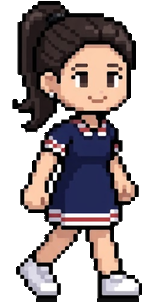
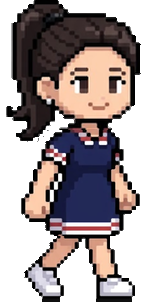
Pitcha: iguala o tamanho da cabeça e das pernas entre os frames
Os frames gerados por IA derivavam de proporção: a cabeça encolhia 22%
(idle 141 px até o último frame 117 px, topo do cabelo→pescoço) e as pernas
cresciam 27% (64→81 px), enquanto o tronco era igual. Nenhuma escala única
corrige; a ferramenta agora normaliza por partes (--normalize-parts).

- cabeça = 130 px em todos os frames, pernas = 72 px, altura 298–302 px,
  centro de massa dentro de 0,9 px
- pescoço cortado logo acima do colarinho; a ponta do rabo de cavalo
  acompanha a cabeça (só o que está ligado a ela)
- tools/: remove o cache do Python do repositório e o ignora

Claude-Session: https://claude.ai/code/session_01JWARVxodwXbVVRqa2zBGJ1

diff --git a/tools/sheet_to_sprites.py b/tools/sheet_to_sprites.py
@@ -184,6 +184,126 @@ def clear_gap_strips(img, max_width=8, min_rows=12, min_black_run=3):
     return Image.fromarray(a, 'RGBA'), cleared
 
 
+def _blobs(mask, min_area=12):
+    """Componentes conexos de uma máscara booleana: [(área, x0, x1, y0, y1)]."""
+    h, w = mask.shape
+    seen = np.zeros_like(mask)
+    out = []
+    for y in range(h):
+        for x in range(w):
+            if mask[y, x] and not seen[y, x]:
+                st, pts = [(y, x)], []
+                seen[y, x] = True
+                while st:
+                    cy, cx = st.pop()
+                    pts.append((cy, cx))
+                    for dy, dx in ((1, 0), (-1, 0), (0, 1), (0, -1)):
+                        ny, nx = cy + dy, cx + dx
+                        if 0 <= ny < h and 0 <= nx < w and mask[ny, nx] and not seen[ny, nx]:
+                            seen[ny, nx] = True
+                            st.append((ny, nx))
+                if len(pts) >= min_area:
+                    ys = [p[0] for p in pts]; xs = [p[1] for p in pts]
+                    out.append((len(pts), min(xs), max(xs), min(ys), max(ys)))
+    return out
+
+
+def detect_landmarks(img):
+    """Pontos de referência de uma figura (RGBA recortada, topo = linha 0), em px da própria imagem:
+       eye_y  = linha dos olhos (centro das duas manchas escuras cercadas de pele)
+       neck_y = 3 px acima da 1ª linha de roupa (azul, listra vermelha ou branco do colarinho) abaixo do rosto
+       hem_y  = última listra vermelha acima dos sapatos (barra da saia)
+    Pensado para a roupa com listras vermelhas e vestido azul da Pitcha; para outro personagem passe
+    --landmarks com os valores medidos à mão."""
+    a = np.array(img).astype(int)
+    h, w = a.shape[:2]
+    op = a[..., 3] > 0
+    skin = op & (a[..., 0] > 190) & (a[..., 1] > 130) & (a[..., 2] > 100) & (a[..., 0] > a[..., 2] + 25)
+    dark = op & (a[..., 0] < 95) & (a[..., 1] < 80) & (a[..., 2] < 80)
+    band = np.zeros_like(dark)
+    lo, hi = int(h * 0.12), int(h * 0.45)
+    band[lo:hi] = dark[lo:hi]
+    eyes = [c for c in _blobs(band) if (c[4] - c[3]) <= 30
+            and skin[(c[3] + c[4]) // 2, :c[1]].any() and skin[(c[3] + c[4]) // 2, c[2] + 1:].any()]
+    eyes = sorted(sorted(eyes, key=lambda c: -c[0])[:2], key=lambda c: c[1])
+    if len(eyes) != 2:
+        raise SystemExit('não achei os 2 olhos; passe --landmarks')
+    eye_y = sum((c[3] + c[4]) / 2 for c in eyes) / 2
+    red = op & (a[..., 0] > 150) & (a[..., 1] < 95) & (a[..., 2] < 95)
+    navy = op & (a[..., 2] > a[..., 0] + 25) & (a[..., 2] > a[..., 1] + 10) & (a[..., 0] < 110)
+    white = op & (a[..., :3].min(axis=2) > 200)
+    cloth = navy | red | white
+    # +34 pula boca e dentes. A roupa (azul/listras do colarinho) começa logo abaixo do pescoço;
+    # o corte fica 3 px acima dela para não passar por dentro das listras do colarinho.
+    first_cloth = next(r for r in range(int(eye_y) + 34, h) if cloth[r].sum() >= 6)
+    reds = [r for r in np.nonzero(red[:int(h * 0.86)].any(axis=1))[0] if r >= int(eye_y) + 34]
+    return {'eye_y': float(eye_y), 'neck_y': int(first_cloth - 3), 'hem_y': int(reds[-1])}
+
+
+def normalize_parts(img, lm, head_target, legs_target, hem_pad=7, hair_ext=30):
+    """Refaz a figura em 3 faixas para que cabeça e pernas tenham o mesmo tamanho em todos os frames
+    (o tronco fica como está). Frames gerados por IA derivam: a cabeça encolhe e as pernas crescem.
+      cabeça = topo do cabelo→pescoço (head_target)   pernas = barra da saia→pés (legs_target)
+    (medir só até os olhos faz o queixo crescer nos frames de cabeça pequena e estoura o canvas)
+    Camadas empilhadas: pernas, tronco, cabeça (a cabeça fica por cima dos ombros).
+    Uns pixels de cabelo logo abaixo do pescoço (ponta do rabo de cavalo) vão junto com a cabeça."""
+    a = np.array(img)
+    h, w = a.shape[:2]
+    neck, hem_cut = lm['neck_y'], lm['hem_y'] + hem_pad
+    k_head = head_target / neck          # cabeça = topo do cabelo → pescoço
+    legs_i = (h - 1) - lm['hem_y']
+    k_legs = (legs_target - hem_pad) / (legs_i - hem_pad)
+    cx = body_anchor_x(img)
+
+    # Ponta do rabo de cavalo: pixels escuros (cabelo + contorno) à esquerda do corpo que continuam,
+    # sem interrupção, a partir da cabeça para baixo do corte. Só o que está ligado entra (nada de pixels soltos).
+    op = a[..., 3] > 0
+    navy = op & (a[..., 2] > a[..., 0] + 25) & (a[..., 2] > a[..., 1] + 10) & (a[..., 0] < 110)
+    dark = op & ~navy & (a[..., :3].astype(int).sum(axis=2) < 330)
+    xlim = int(cx - 22)
+    ext = np.zeros((h, w), bool)
+    stack = [(neck - 1, x) for x in range(xlim) if dark[neck - 1, x]]
+    for y, x in stack:
+        ext[y, x] = True
+    while stack:
+        y, x = stack.pop()
+        for dy, dx in ((1, 0), (0, 1), (0, -1)):
+            ny, nx = y + dy, x + dx
+            if neck <= ny < neck + hair_ext and 0 <= nx < xlim and dark[ny, nx] and not ext[ny, nx]:
+                ext[ny, nx] = True
+                stack.append((ny, nx))
+    ext[:neck] = False                    # acima do corte tudo já é cabeça
+    head_rows = neck + hair_ext
+    head = a.copy(); head[:, :, 3] = 0
+    head[:neck] = a[:neck]
+    head[ext] = a[ext]
+    head = head[:head_rows]
+    torso = a.copy(); torso[ext] = (0, 0, 0, 0); torso = torso[neck:hem_cut]
+    legs = a[hem_cut:]
+
+    def scaled(layer, k):
+        lw, lh = layer.shape[1], layer.shape[0]
+        im = Image.fromarray(layer, 'RGBA')
+        if abs(k - 1) < 1e-3 or lh == 0:
+            return im
+        size = (max(1, round(lw * k)), max(1, round(lh * k)))
+        return binarize_alpha(im.convert('RGBa').resize(size, Image.LANCZOS).convert('RGBA'))
+
+    # centro do pescoço (pele na linha do corte) e do quadril (massa do corpo) como âncoras horizontais
+    skin_row = np.nonzero(((a[neck - 1, :, 3] > 0) & (a[neck - 1, :, 0] > 190)))[0]
+    cx_neck = float(skin_row.mean()) if len(skin_row) else cx
+    y_torso = round(neck * k_head)                       # a cabeça tem altura neck*k_head acima do tronco
+    total_h = y_torso + (hem_cut - neck) + round(legs.shape[0] * k_legs)
+    pad = 80
+    canvas = Image.new('RGBA', (w + 2 * pad, total_h), (0, 0, 0, 0))
+    lg = scaled(legs, k_legs)
+    canvas.alpha_composite(lg, (round(pad + cx * (1 - k_legs)), y_torso + (hem_cut - neck)))
+    canvas.alpha_composite(Image.fromarray(torso, 'RGBA'), (pad, y_torso))
+    hd = scaled(head, k_head)
+    canvas.alpha_composite(hd, (round(pad + cx_neck * (1 - k_head)), 0))
+    return canvas.crop(canvas.getbbox())
+
+
 def binarize_alpha(img):
     a = np.array(img)
     a[..., 3] = np.where(a[..., 3] >= 128, 255, 0)
@@ -206,6 +326,11 @@ def main():
                     '(já na escala do jogo, ver --idle-scale); sem transparência passa pela remoção de fundo e usa a escala dos frames')
     ap.add_argument('--idle-scale', type=float, default=1.0,
                     help='fator aplicado a um --idle-image transparente (1.0 = já está na escala do jogo; confira comparando a largura do rosto)')
+    ap.add_argument('--normalize-parts', action='store_true',
+                    help='iguala o tamanho da cabeça e das pernas entre os frames (frames de IA derivam); exige --head-target e --legs-target')
+    ap.add_argument('--head-target', type=float, help='altura desejada topo do cabelo→pescoço, em px do canvas (ex.: 133)')
+    ap.add_argument('--legs-target', type=float, help='altura desejada barra da saia→pés, em px do canvas (ex.: 73)')
+    ap.add_argument('--landmarks', help='JSON com {"idle"|"1".."N": {"eye_y","neck_y","hem_y"}} para sobrepor a detecção automática')
     ap.add_argument('--no-clean-gaps', dest='clean_gaps', action='store_false', help='não limpa vãos opacos entre braço e corpo')
     ap.add_argument('--out', default='assets')
     ap.add_argument('--preview', help='grava uma folha de conferência sobre fundo verde')
@@ -255,24 +380,48 @@ def main():
     # Um idle já pronto entra na escala que ele tem (--idle-scale), pois já está no tamanho do jogo.
     scale = args.height / max(f.height for f in frames)
     scales = [scale] * len(frames) + ([args.idle_scale if idle_ready else scale] if idle_extra is not None else [])
-    anchors = [body_anchor_x(f) for f in allf]
-    half = int(np.ceil(max(max(a * sc, (f.width - a) * sc) for f, a, sc in zip(allf, anchors, scales)))) + 1
+    figs = []
+    for f, sc in zip(allf, scales):
+        size = (max(1, round(f.width * sc)), max(1, round(f.height * sc)))
+        # RGBa (alpha pré-multiplicado): evita franja escura/clara nas bordas ao reduzir
+        g = binarize_alpha(f.convert('RGBa').resize(size, Image.LANCZOS).convert('RGBA'))
+        figs.append(g.crop(g.getbbox()))
+
+    parts_report = []
+    if args.normalize_parts:
+        if args.head_target is None or args.legs_target is None:
+            raise SystemExit('--normalize-parts exige --head-target e --legs-target')
+        override = {}
+        if args.landmarks:
+            import json
+            override = json.load(open(args.landmarks, encoding='utf-8'))
+        labels = [str(i) for i in range(1, len(frames) + 1)] + (['idle'] if idle_extra is not None else [])
+        new_figs = []
+        for lab, g in zip(labels, figs):
+            lm = detect_landmarks(g)
+            lm.update(override.get(lab, {}))
+            parts_report.append((lab, dict(lm), g.height))
+            new_figs.append(normalize_parts(g, lm, args.head_target, args.legs_target))
+        figs = new_figs
+        for lab, lm, hh in parts_report:
+            print(f'  [{lab}] olhos y={lm["eye_y"]:.0f} pescoço y={lm["neck_y"]} barra y={lm["hem_y"]} (altura antes {hh})')
+    if any(g.height > args.height for g in figs):
+        raise SystemExit(f'figura mais alta que o canvas ({max(g.height for g in figs)} > {args.height}); ajuste os alvos')
+
+    anchors = [body_anchor_x(g) for g in figs]
+    half = int(np.ceil(max(max(a, g.width - a) for g, a in zip(figs, anchors)))) + 1
     canvas_w = half * 2
 
-    def compose(img, anchor, scale):
-        size = (max(1, round(img.width * scale)), max(1, round(img.height * scale)))
-        # RGBa (alpha pré-multiplicado): evita franja escura/clara nas bordas ao reduzir
-        s = binarize_alpha(img.convert('RGBa').resize(size, Image.LANCZOS).convert('RGBA'))
+    def compose(g, anchor):
         canvas = Image.new('RGBA', (canvas_w, args.height), (0, 0, 0, 0))
-        x = int(round(half - anchor * scale))
-        canvas.alpha_composite(s, (x, args.height - s.height))
+        canvas.alpha_composite(g, (int(round(half - anchor)), args.height - g.height))
         if args.clean_gaps:
             canvas, n = clear_gap_strips(canvas)
             cleaned.append(n)
         return canvas
 
     cleaned = []
-    outs = [compose(f, a, sc) for f, a, sc in zip(allf, anchors, scales)]
+    outs = [compose(g, a) for g, a in zip(figs, anchors)]
     walk = outs[:len(frames)]
     idle = outs[-1] if idle_extra else (walk[args.idle_from] if args.idle_from is not None else None)
     for i, im in enumerate(walk, 1):

diff --git a/CLAUDE.md b/CLAUDE.md
@@ -269,6 +269,17 @@ python3 tools/sheet_to_sprites.py folha.jpg --name marilia --cols 2 --rows 2 --i
 python3 tools/sheet_to_sprites.py folha.jpg --name marilia --idle-image pose_parada.png --out assets   # idle separado, mesma escala
 ```
 
+`--normalize-parts --head-target 130 --legs-target 72` iguala **cabeça** (topo do cabelo→pescoço) e **pernas** (barra da saia→pés) entre os frames,
+mantendo o tronco. Existe porque frames gerados por IA derivam de proporção: na Pitcha a cabeça encolhia 22% e as pernas cresciam 27% do idle ao
+último frame de caminhada (o tronco era igual), e nenhuma escala única corrige isso. Os pontos de referência (olhos, pescoço, barra) são detectados
+pela roupa/rosto dela (vestido azul, listras vermelhas); para outro personagem passe `--landmarks arquivo.json` com `eye_y`, `neck_y`, `hem_y`
+medidos à mão. Comando usado na Pitcha:
+
+```bash
+python3 tools/sheet_to_sprites.py folha.jpg --name marilia --idle-image pose_parada.png \
+    --normalize-parts --head-target 130 --legs-target 72 --out assets
+```
+
 Por que existe: recortar cada frame "rente ao desenho" dá canvas de larguras diferentes e o personagem balança
 ao andar (a Pitcha chegou a variar ~24 px no vestido). O script remove o fundo (com ruído de JPEG e halo), usa **uma
 escala única**, alinha o **centro de massa do corpo** no centro de um canvas de largura única, põe os pés na base
